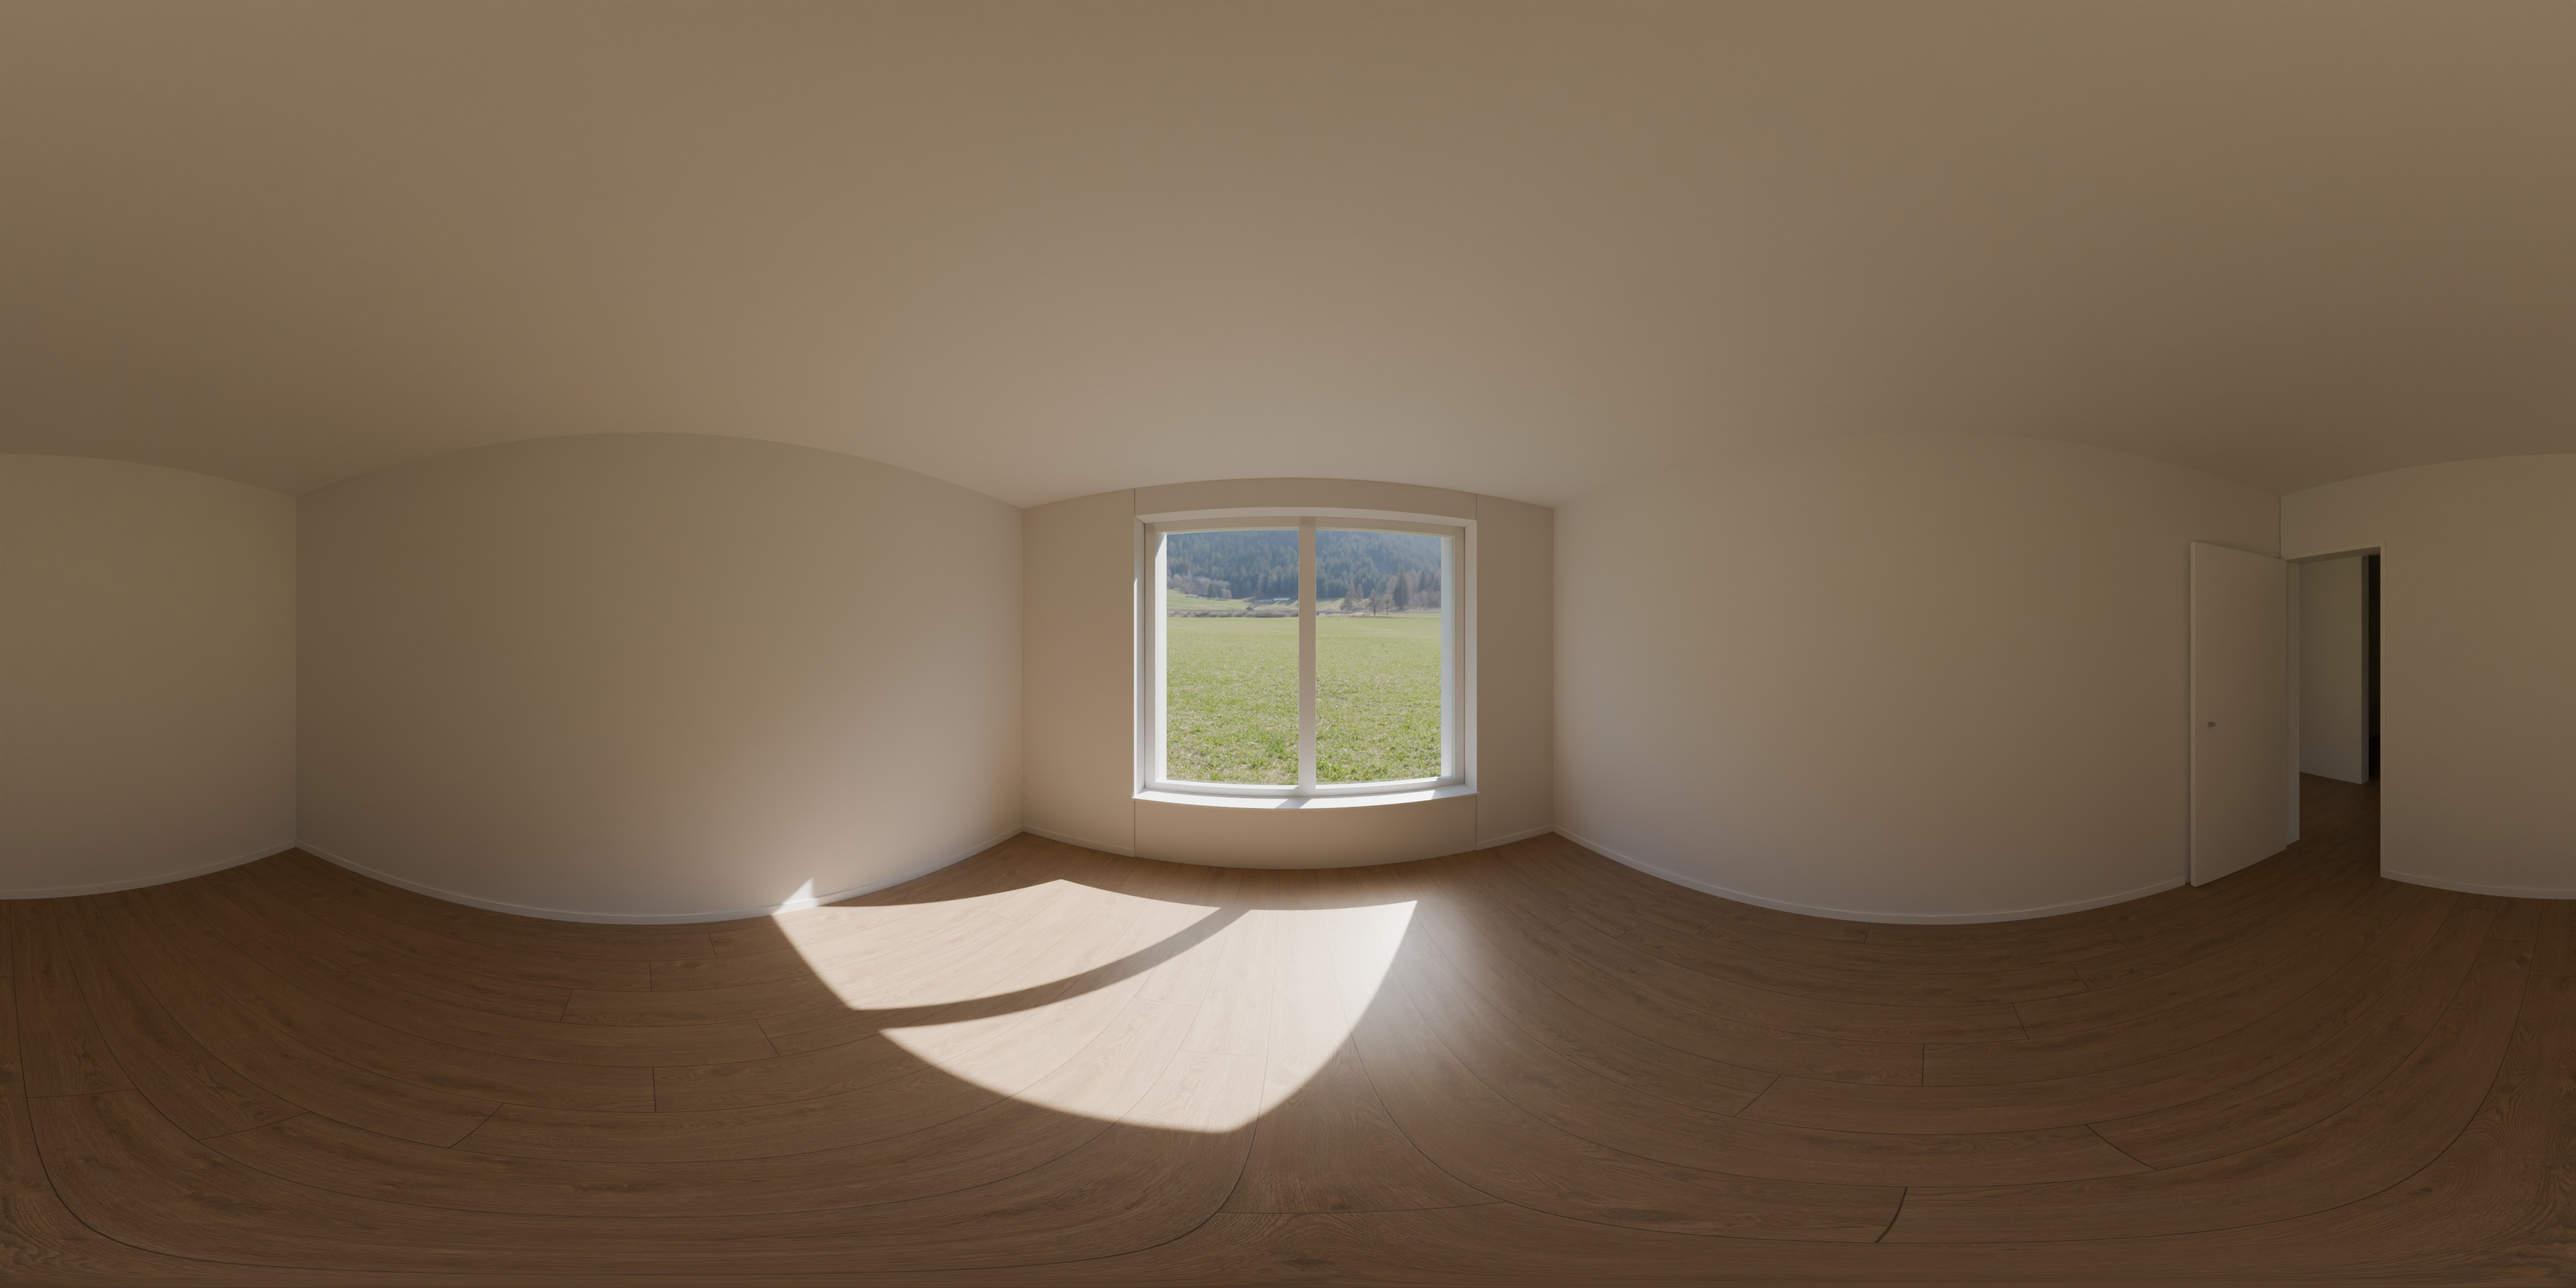
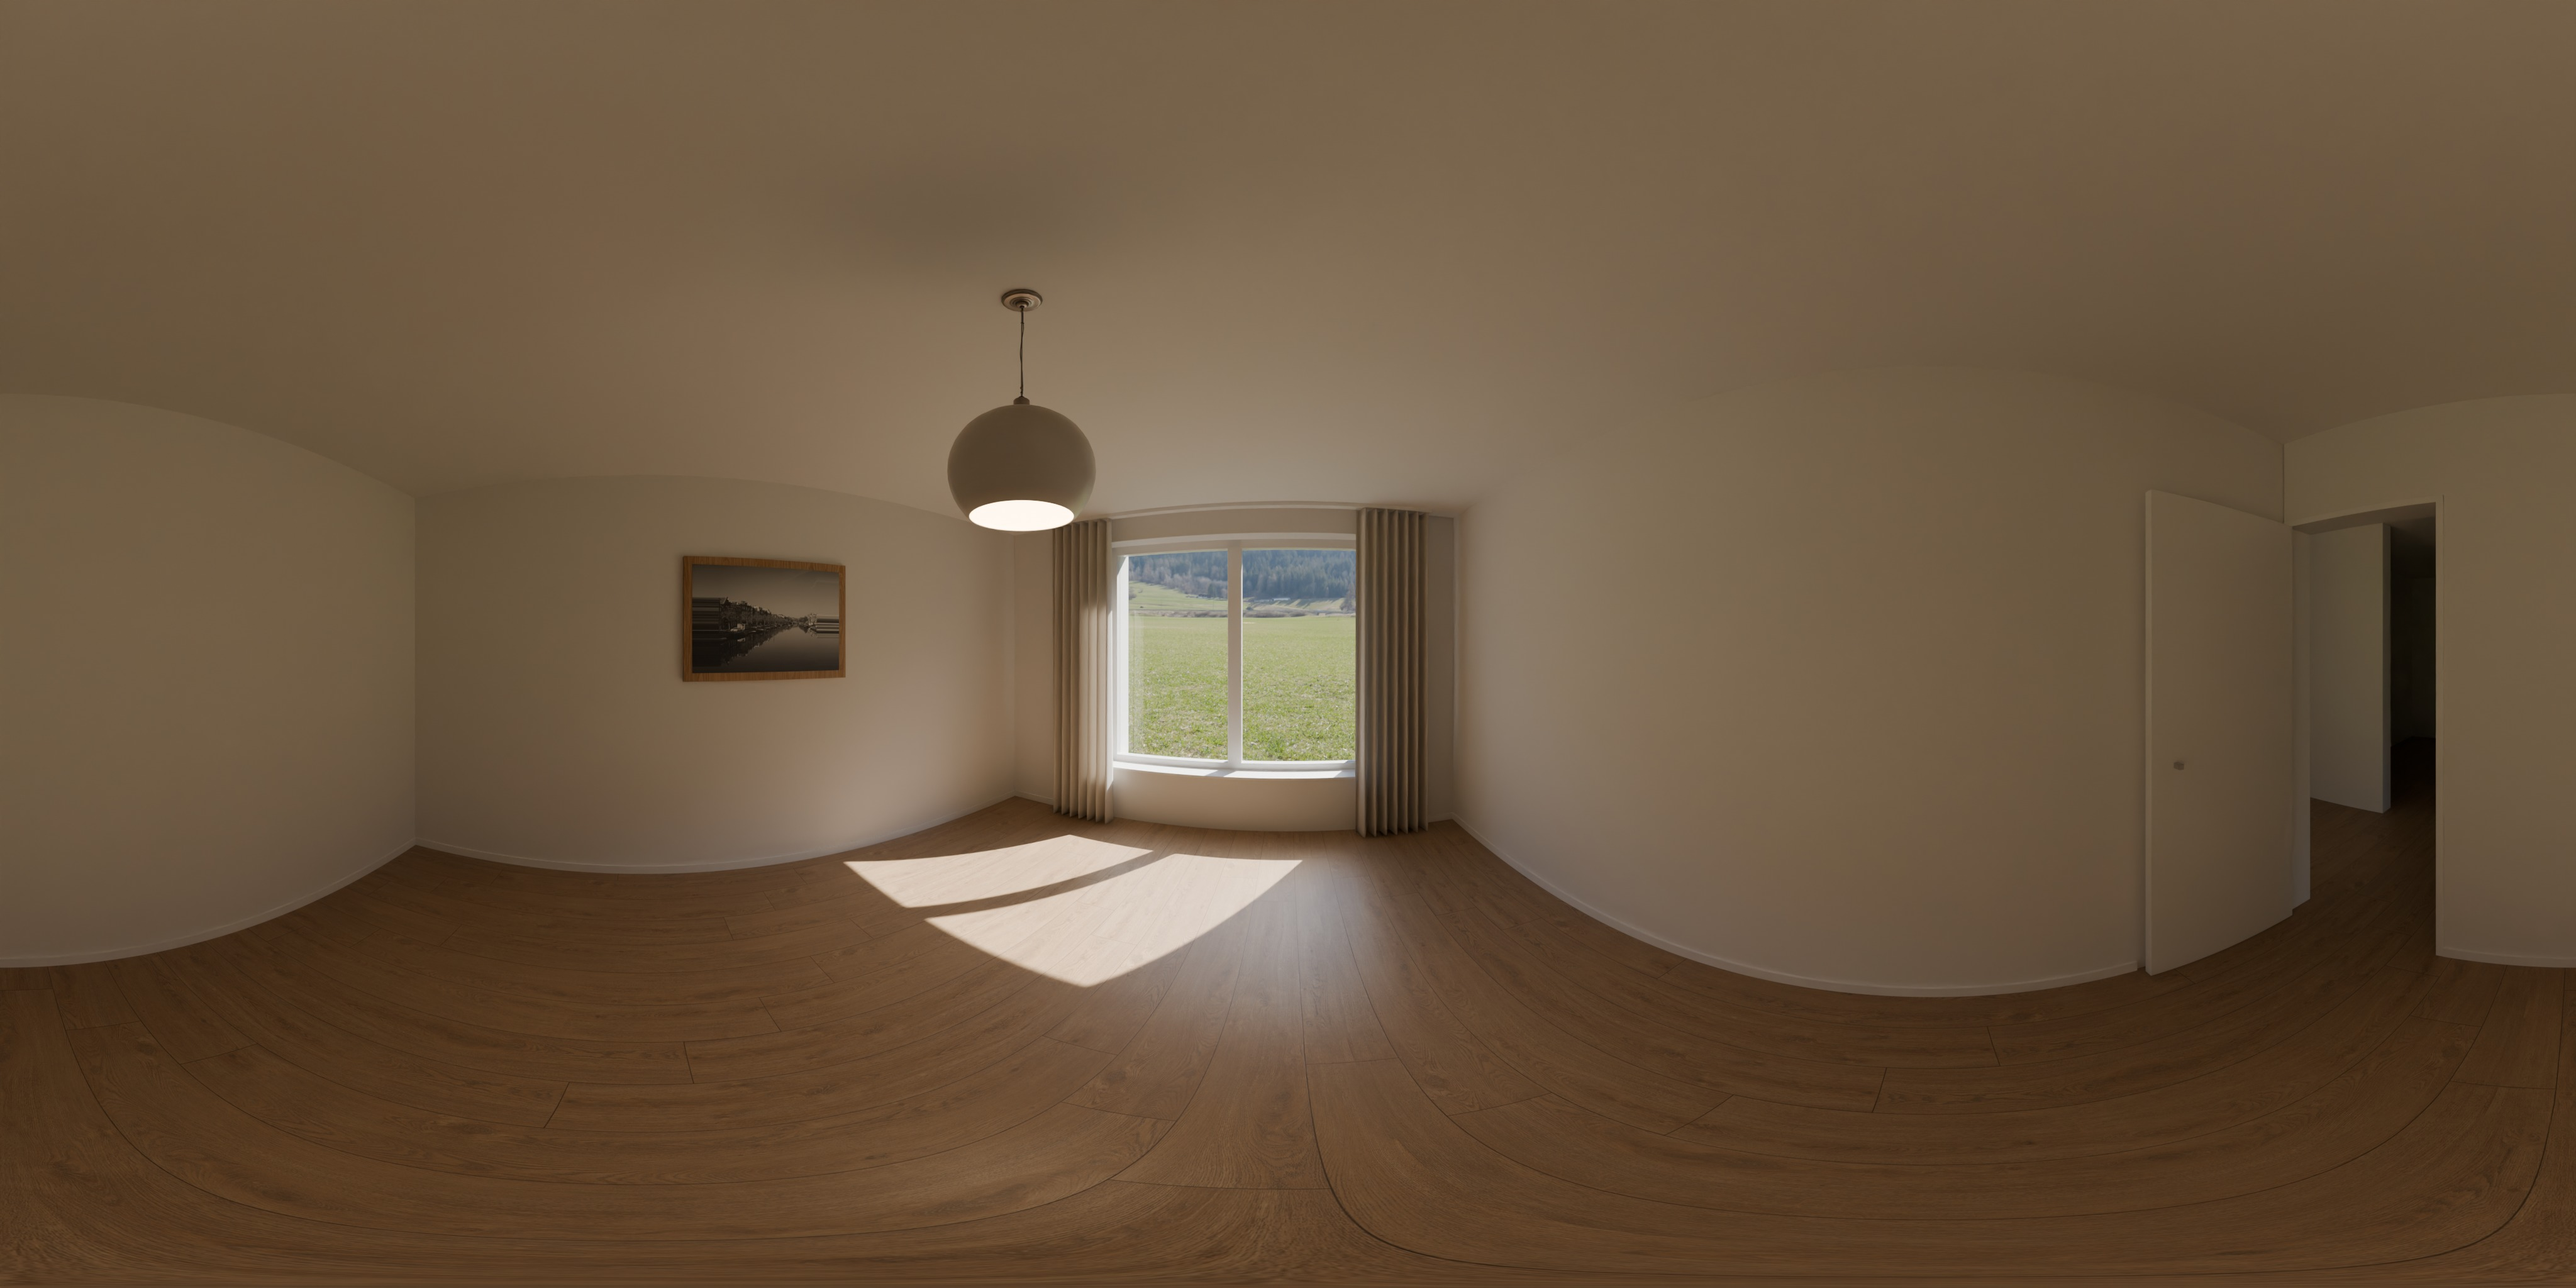
Leicht eingerichtet: Lampe, Bild, Vorhänge

diff --git a/index.html b/index.html
@@ -31,16 +31,16 @@ body{background:var(--ground);color:var(--ink);font-family:var(--f-ui);overflow:
 <div class="cap">
   <h1>Machbarkeitstest · Schlafzimmer 360°</h1>
   <div class="kv"><span><b>Raum</b>3.70 × 4.55 m</span><span><b>Fenster</b>2.17 m</span><span><b>Tür</b>80 cm</span></div>
-  <p>Wände, Fenster und Tür massgenau aus dem Grundriss. Raumhöhe angenommen, Aussicht Platzhalter. Ziehen zum Umsehen.</p>
+  <p>Wände, Fenster und Tür massgenau aus dem Grundriss. Raumhöhe angenommen, Aussicht und Einrichtung Platzhalter. Ziehen zum Umsehen.</p>
 </div>
 <script src="https://cdnjs.cloudflare.com/ajax/libs/pannellum/2.5.6/pannellum.js"></script>
 <script>
 (function(){
   function label(div, t){ div.classList.add('dim'); div.textContent = t; }
-  var spots = [[-2,3,'Fenster 2.17 m'],[-10,145,'Tür 80 cm'],[-48,0,'Raum 3.70 × 4.55 m']]
+  var spots = [[-2,-8,'Fenster 2.17 m'],[-14,149,'Tür 80 cm'],[-48,-25,'Raum 3.70 × 4.55 m']]
     .map(function(s){ return {pitch:s[0], yaw:s[1], cssClass:'dimspot', createTooltipFunc:label, createTooltipArgs:s[2]}; });
   pannellum.viewer('pano', {type:'equirectangular', panorama:'pano.jpg', autoLoad:true, showFullscreenCtrl:true, showZoomCtrl:false,
-    hfov:100, minHfov:50, maxHfov:120, yaw:-25, pitch:-6, compass:false, hotSpots:spots,
+    hfov:100, minHfov:50, maxHfov:120, yaw:-35, pitch:-4, compass:false, hotSpots:spots,
     autoRotate: window.matchMedia('(prefers-reduced-motion: reduce)').matches ? 0 : -1.5, autoRotateInactivityDelay:6000});
 })();
 </script>
